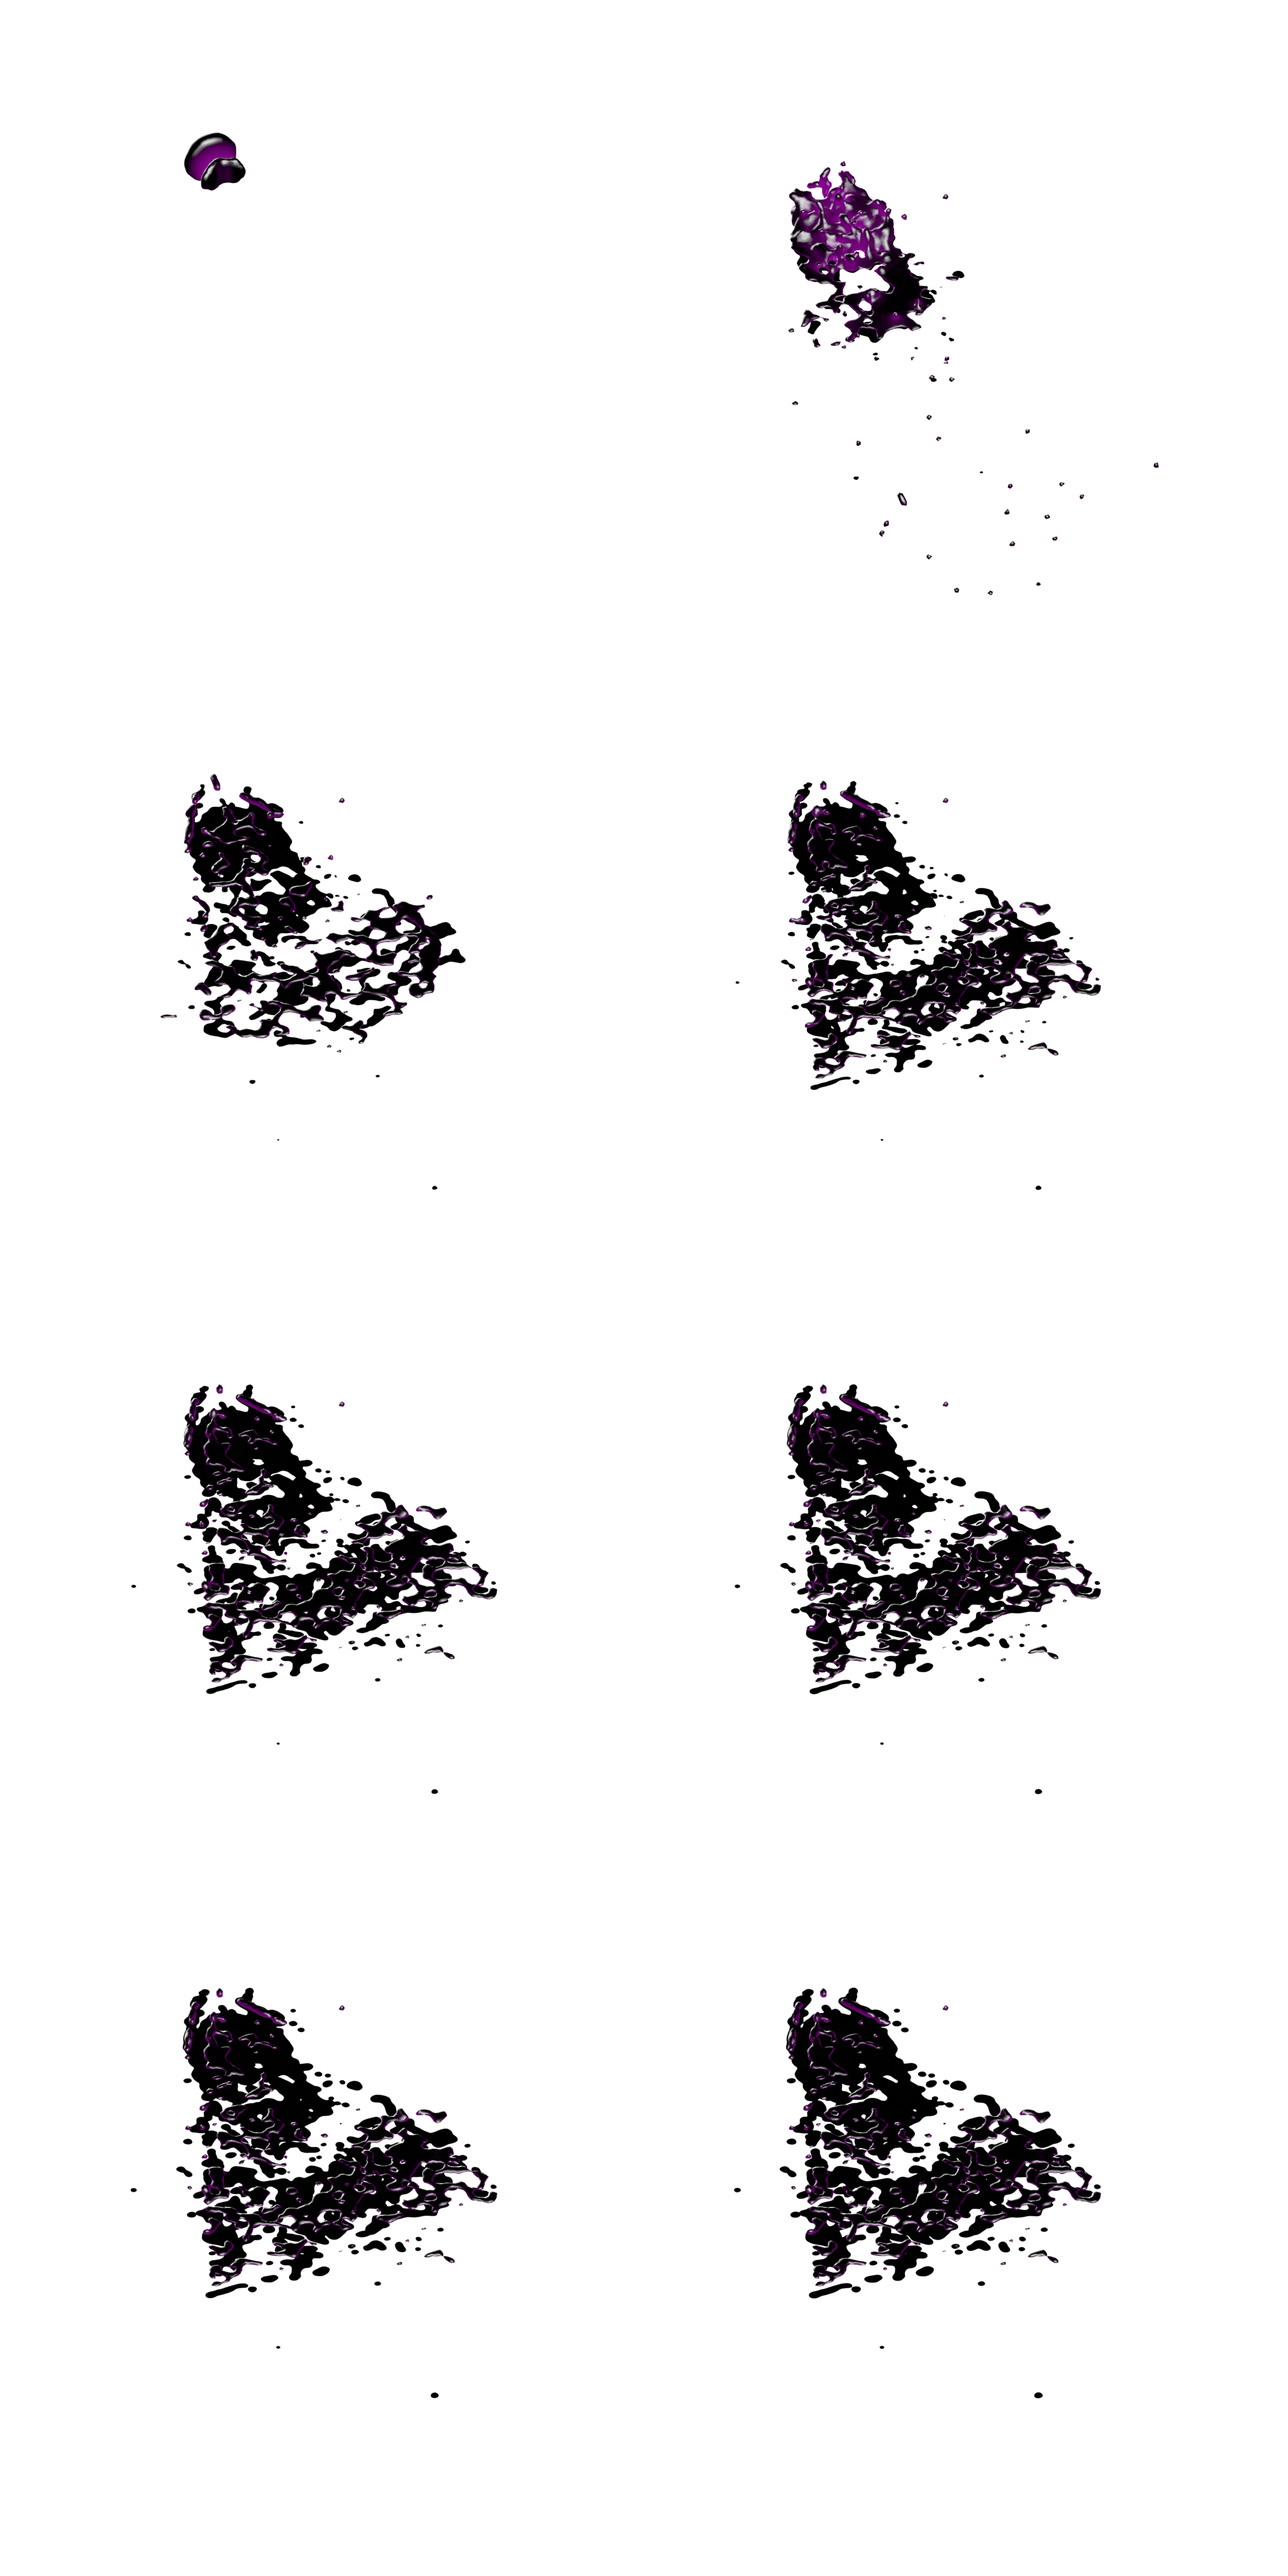
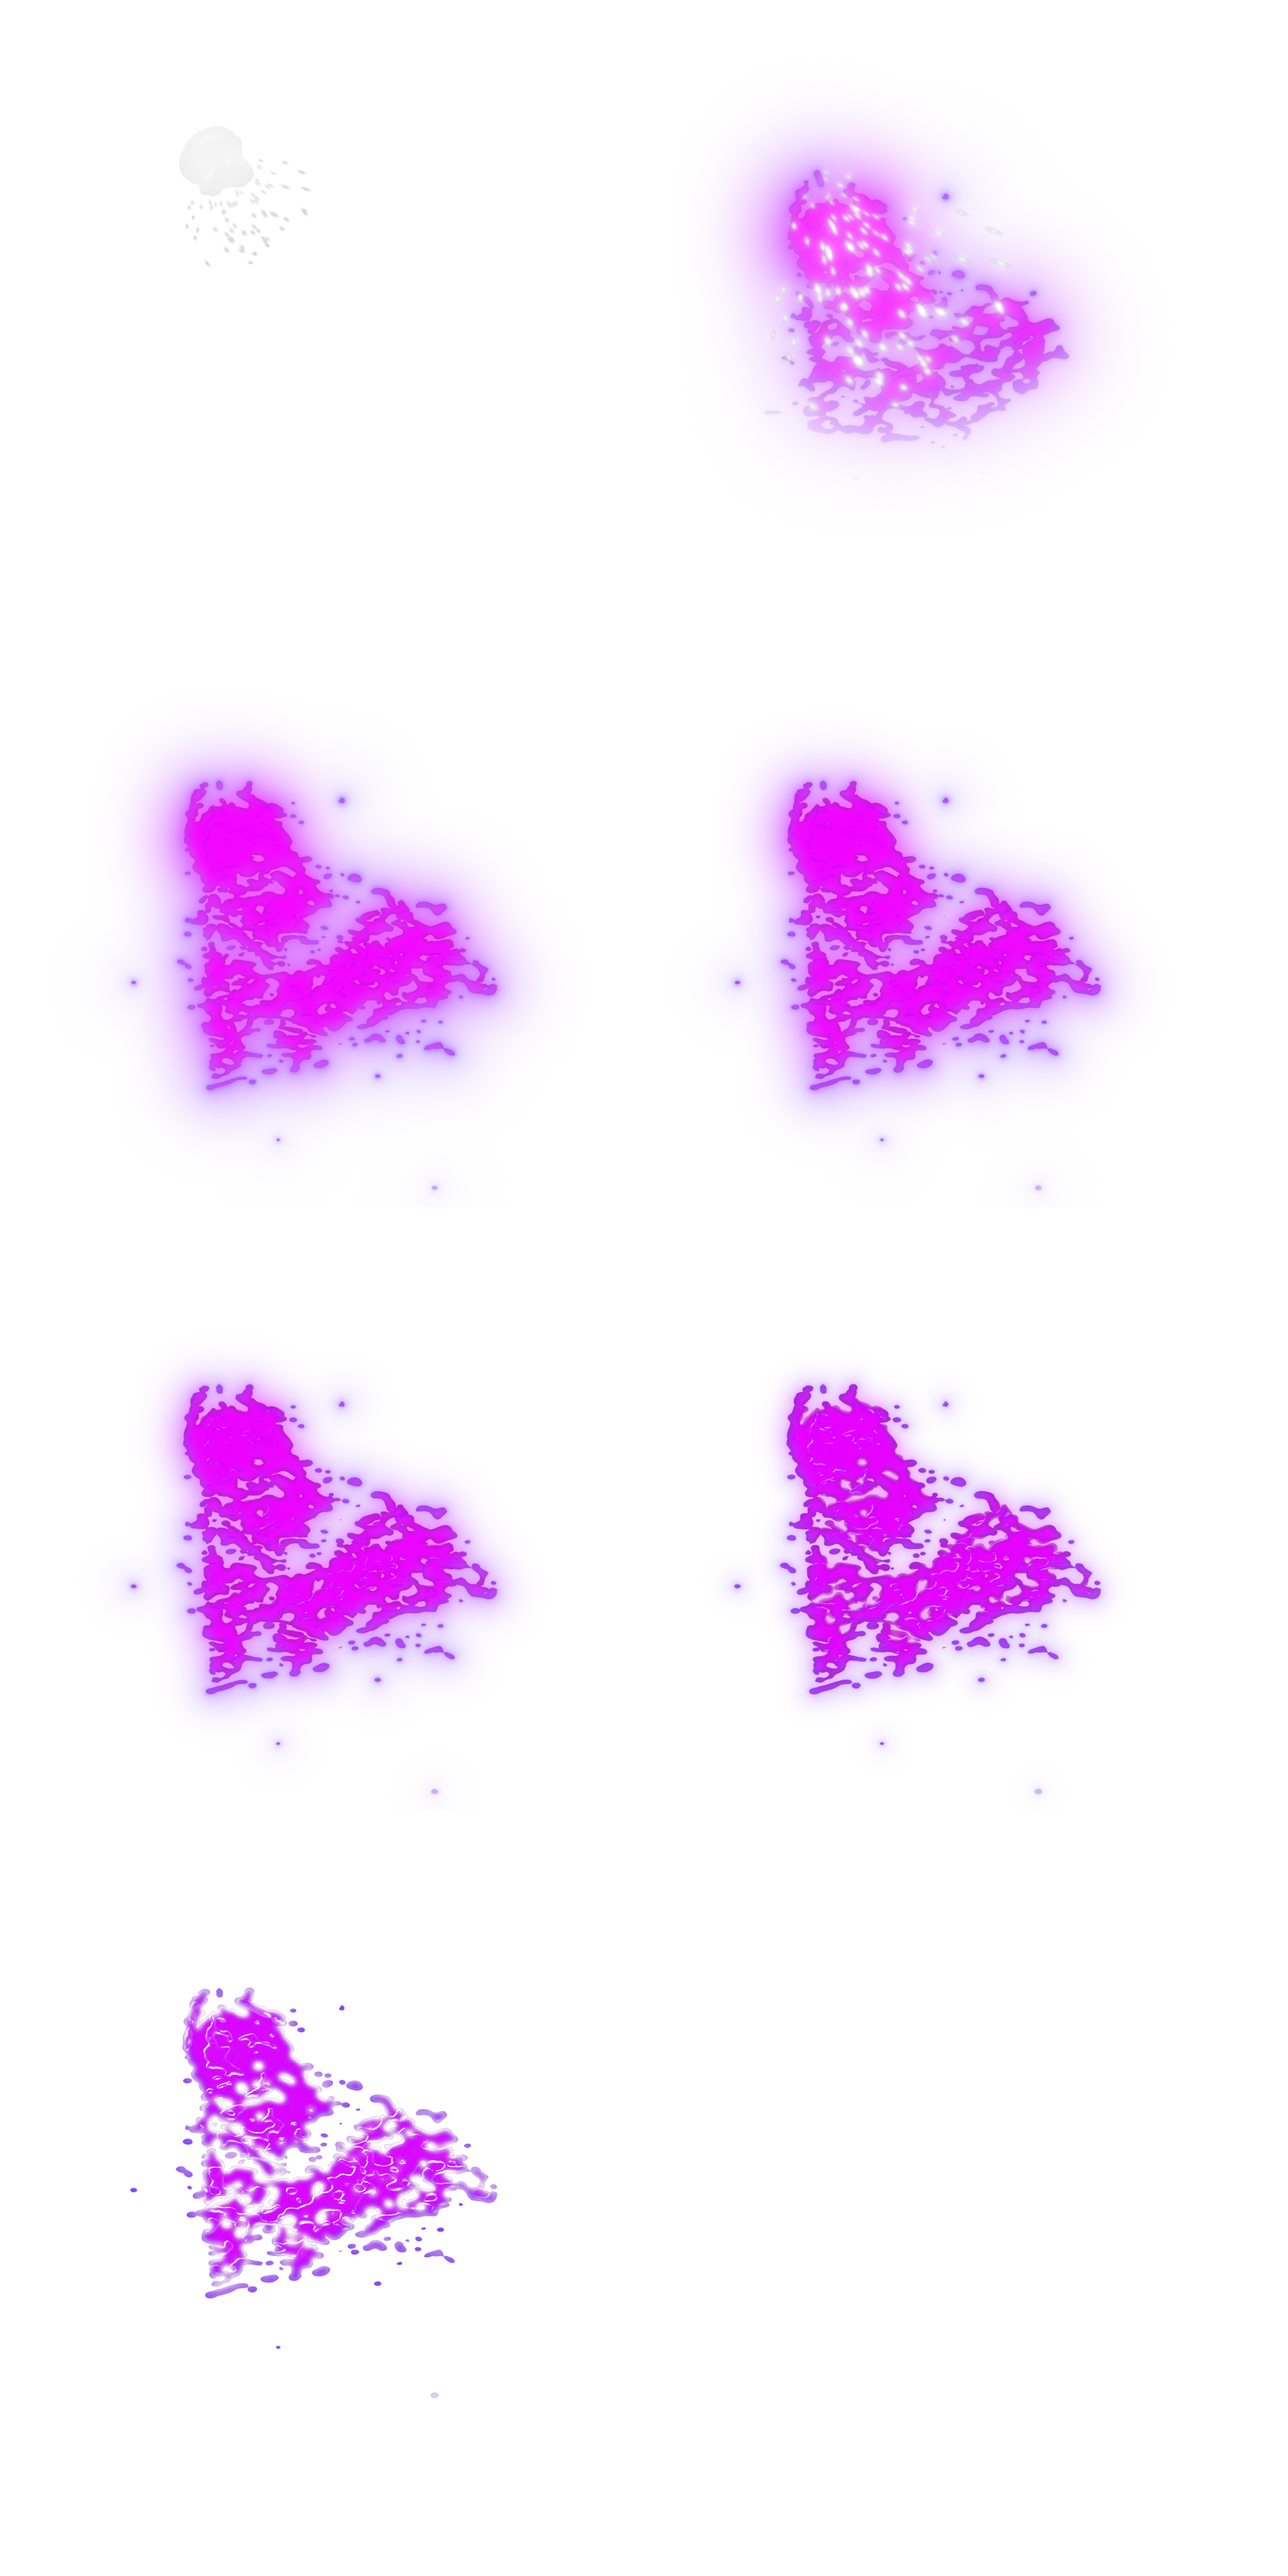
phil recolor, dissolve on origin and origin + dir liquid tiles

diff --git a/Assets/Scripts/VFX/BloodSplatter.cs b/Assets/Scripts/VFX/BloodSplatter.cs
@@ -15,9 +15,11 @@ public class BloodSplatter : MonoBehaviour {
         else if (dir.y < 0) anim.SetTrigger("-Y");
 
         //gfx.sortingOrder = origin.grid.SortOrderFromCoord(origin.coord + dir);
-        Tile parent = origin.grid.tiles.Find(t => t.coord == origin.coord+dir);
+        Tile parent1 = origin.grid.tiles.Find(t => t.coord == origin.coord+dir);
+        Tile parent2 = origin.grid.tiles.Find(t => t.coord == origin.coord);
         transform.position = origin.grid.PosFromCoord(origin.coord);
-        if (!parent || (parent && (parent.tileType == Tile.TileType.Blood || parent.tileType == Tile.TileType.Bile))) {
+        if (!parent1 || (parent1 && (parent1.tileType == Tile.TileType.Blood || parent1.tileType == Tile.TileType.Bile))
+            || parent2.tileType == Tile.TileType.Blood || parent2.tileType == Tile.TileType.Bile) {
             anim.SetBool("Dissolve", true);
         }
     }
